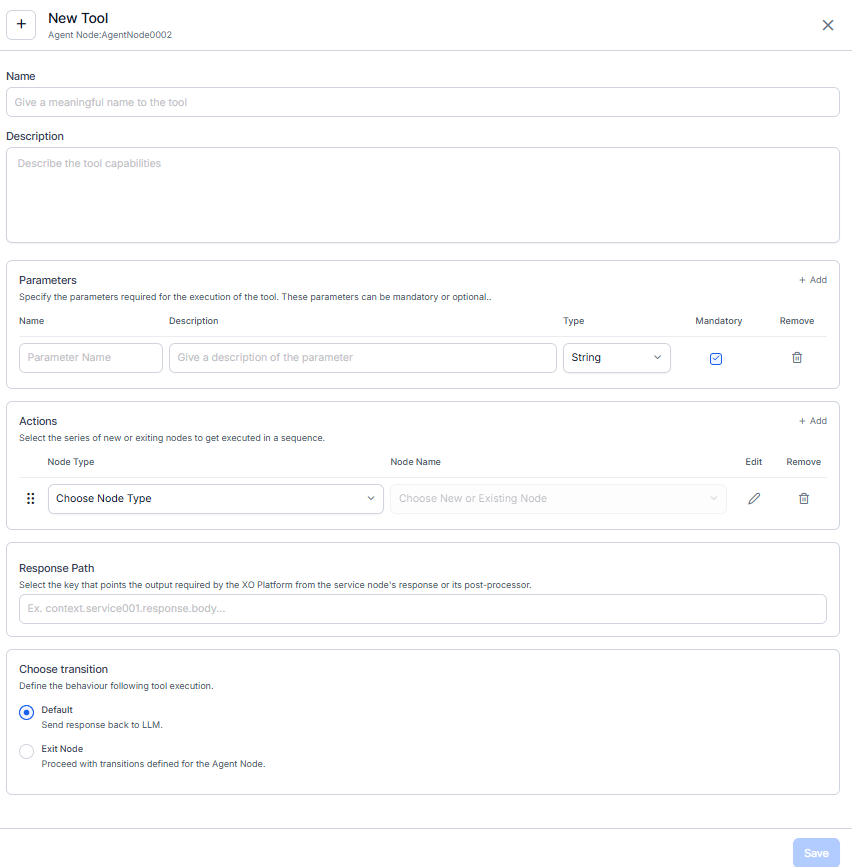
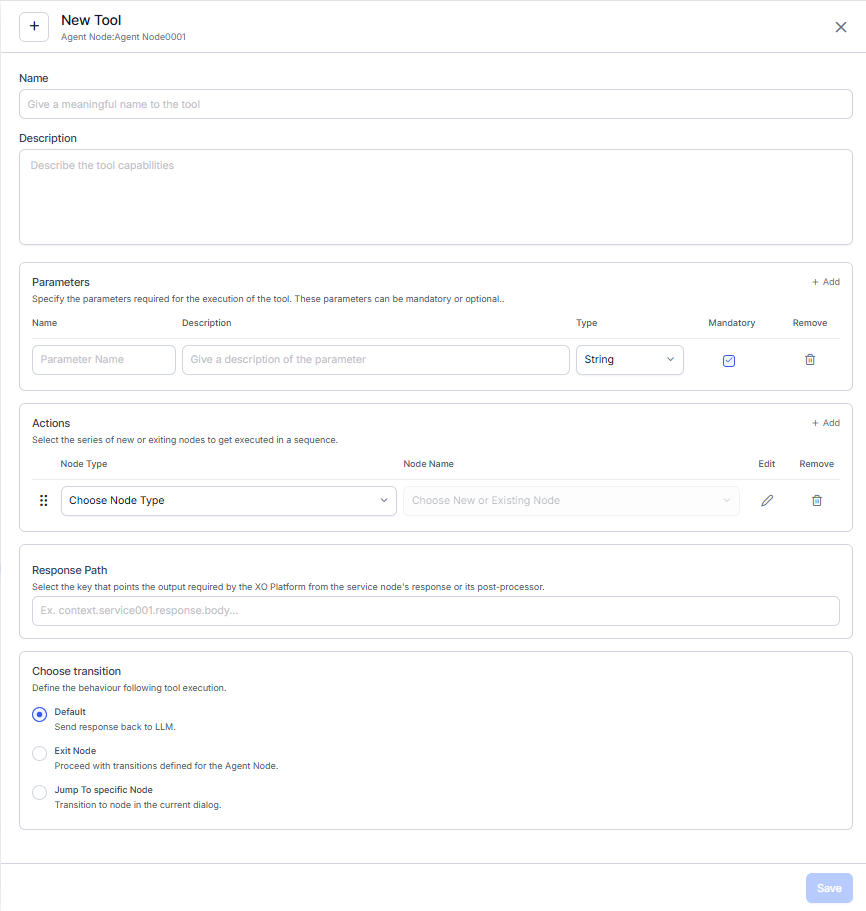
image

diff --git a/docs/xo/release-notes/11.x/automation-ai.md b/docs/xo/release-notes/11.x/automation-ai.md
@@ -12,7 +12,7 @@ This document provides information on the feature updates and enhancements intro
 
 The Agent node now features a "Jump-to-Node" transition option, enabling the creation of sophisticated dialog workflows. This enhancement allows for dynamic branching based on tool execution results, significantly streamlining the design of complex conversation flows.
 
-**Key Updates**:
+Key Updates:
 
 * Added "Jump-to-Node" transition option for tools within the Agent node.
 * Enables seamless navigation to specified target nodes following tool execution.
@@ -20,7 +20,7 @@ The Agent node now features a "Jump-to-Node" transition option, enabling the cre
 * Supports transitions to both orphan nodes and sub-dialogs.
 * Ensures full backward compatibility with existing tool configurations.
 
-[Learn more :octicons-arrow-right-24:](../../automation/use-cases/dialogs/node-types/agent-node-configuration.md#jump-to-a-node-transition){:target="_blank"}
+[Learn more :octicons-arrow-right-24:](../../automation/use-cases/dialogs/node-types/agent-node-configuration.md#tools){:target="_blank"}
 
 ### Agent Transfer
 

diff --git a/docs/xo/automation/use-cases/dialogs/node-types/agent-node-configuration.md b/docs/xo/automation/use-cases/dialogs/node-types/agent-node-configuration.md
@@ -95,7 +95,7 @@ Define the following details for tool configuration:
     * **Jump to a Node**: You can jump to any node defined in the dialog. 
 
 
-##### **Jump to a Node Transition**
+**Jump to a Node Transition**
 
 The Jump-to-Node transition option enables the creation of sophisticated dialog workflows. It allows for dynamic branching based on tool execution results, significantly streamlining the design of complex conversation flows.
 
